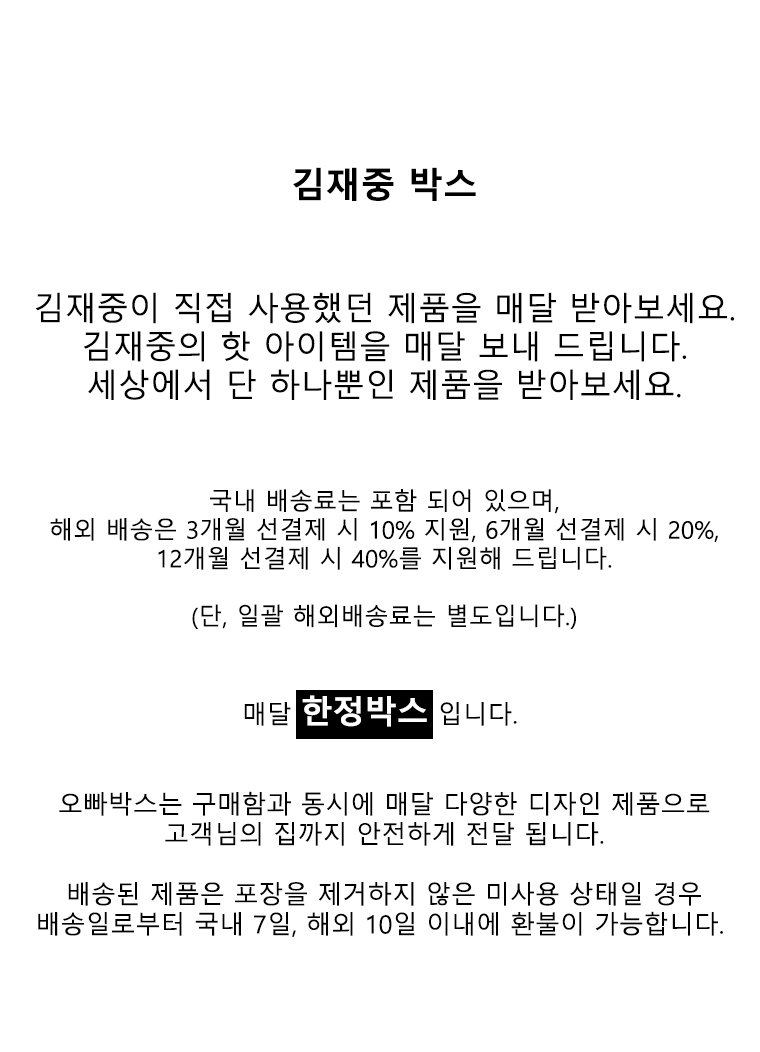
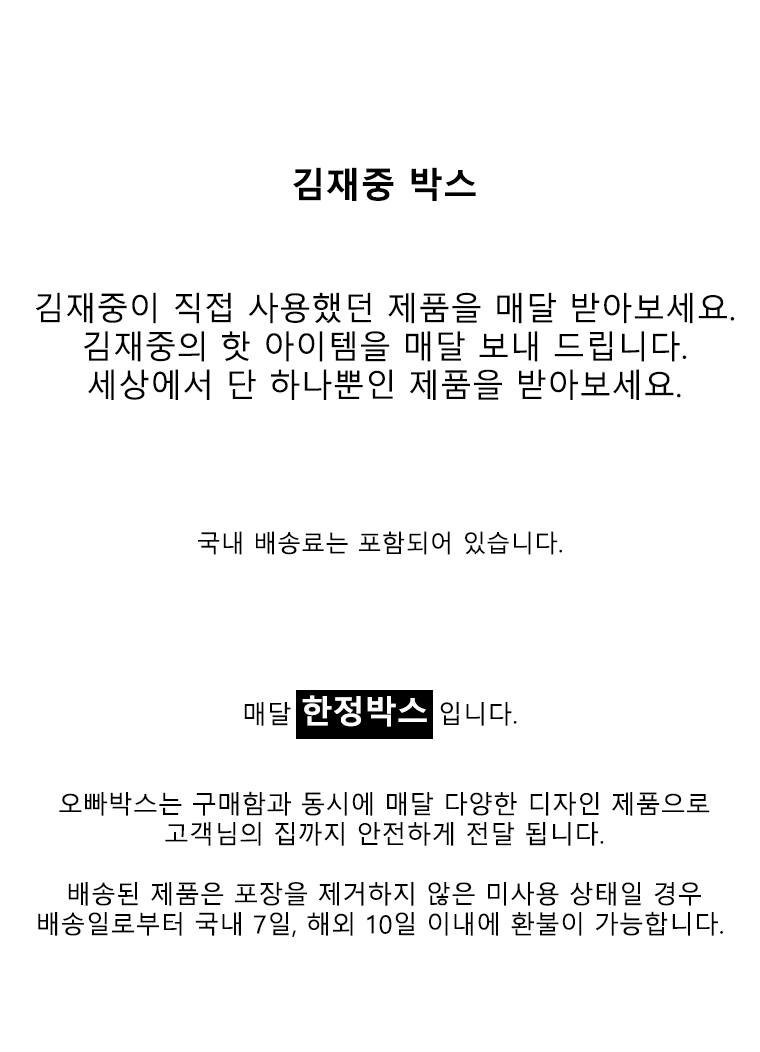
이미지 주성 및 footer 내용 추가

Changed region(s): [[0.0605, 0.4563, 0.9382, 0.5475], [0.2421, 0.5779, 0.7566, 0.6084]]

diff --git a/app/assets/stylesheets/application.css b/app/assets/stylesheets/application.css
@@ -20,27 +20,47 @@ footer {
 footer p{
   margin-bottom:5px;
 }
-.about_info {
+
+/* 상단 */
+.us_info {
 	background:#2B2B2B;
-	padding-top: 30px;
-	padding-bottom: 20px;
+	padding-top: 8px;
+	padding-bottom: 30px;
+}
+.us_info ul {
+	list-style: none;
+	padding-left: 0;
+	margin-left: 0;
+}
+.us_info ul li {
+	list-style: none;
+	font-weight: bold;
+	color: #E0E0E0;
+	padding: 0 0 10px 0;
+}
+.company_ul li a{
+	font-size: 16px;
+	font-weight: bold;
+	color: #8A8A8A;
+}
+.headline {
+	margin: 15px 0 25px 0;
+}
+.headline h2 {
+	color: #F2F2F2;
+	font-weight: bold;
+	font-size: 20px;
+	line-height: 15px;
+	border-bottom: 1px solid #e4e9f0;
+	padding-bottom: 15px;
+	border-left: none;
+
 }
 
-.about_us {
-	color: #e8e8e8;
-	font-weight: bold;
-	font-size: 16px;
-	line-height: 19px;
-	text-shadow: 0px 0px 3px #000;
-	border-bottom: 1px solid #535353;
-	background: transparent;
-	padding: 0 0 15px 0;
-	border-left: none;
-	margin: 0 0 15px 0;
-}
+/* 하단 */
 
 .company_box {
-	color: #ABABAB;
+	color: #CCCCCC;
 	padding-top:10px;
 }
 .company_txt {
